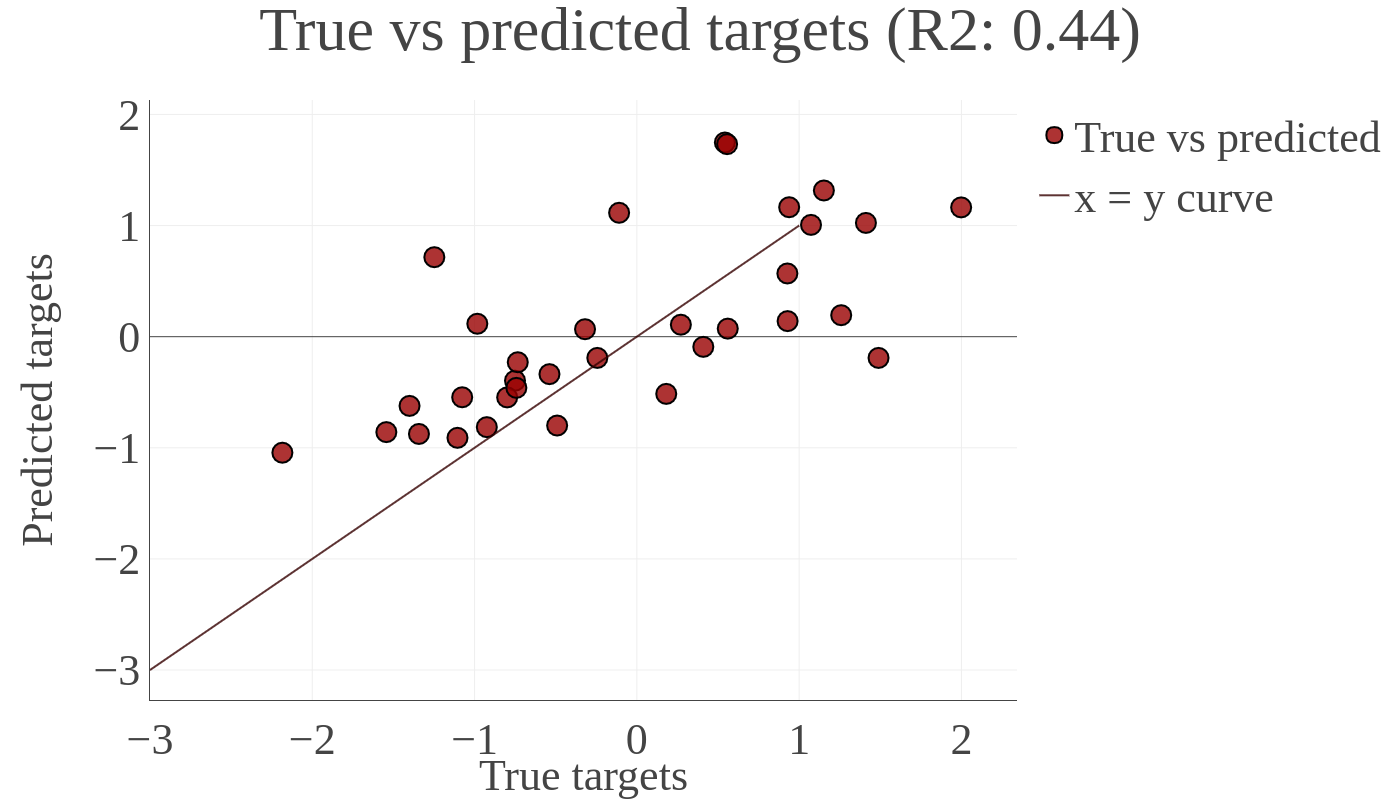
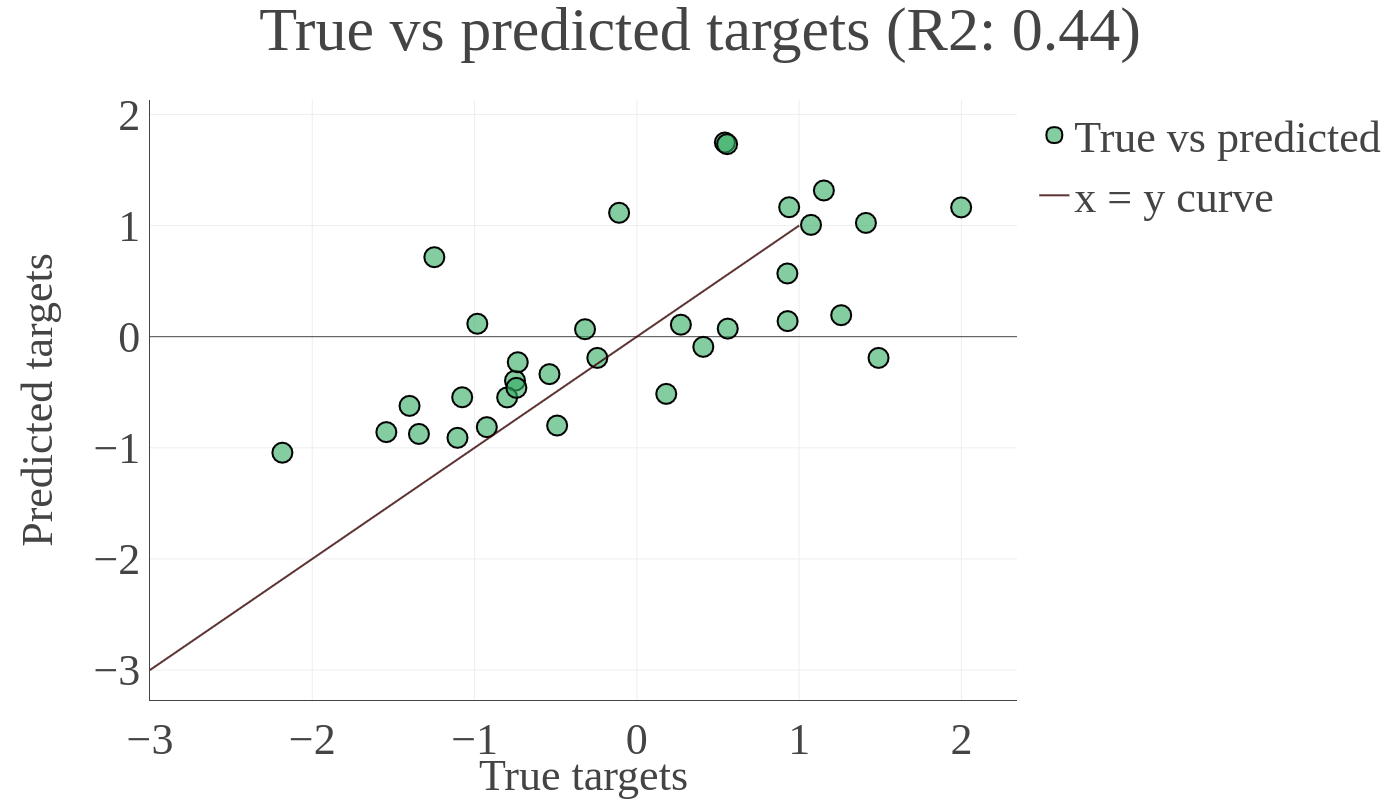
update plots

diff --git a/r2_plots.py b/r2_plots.py
@@ -80,7 +80,7 @@ for d_set in datasets:
         name = 'True vs predicted',
         marker = dict(
             size = 20,
-            color = 'rgba(152, 0, 0, .8)',
+            color = 'rgba(50, 171, 96, 0.6)', #'rgba(152, 0, 0, .8)',
             line = dict(
                 width = 2,
                 color = 'rgb(0, 0, 0)'
